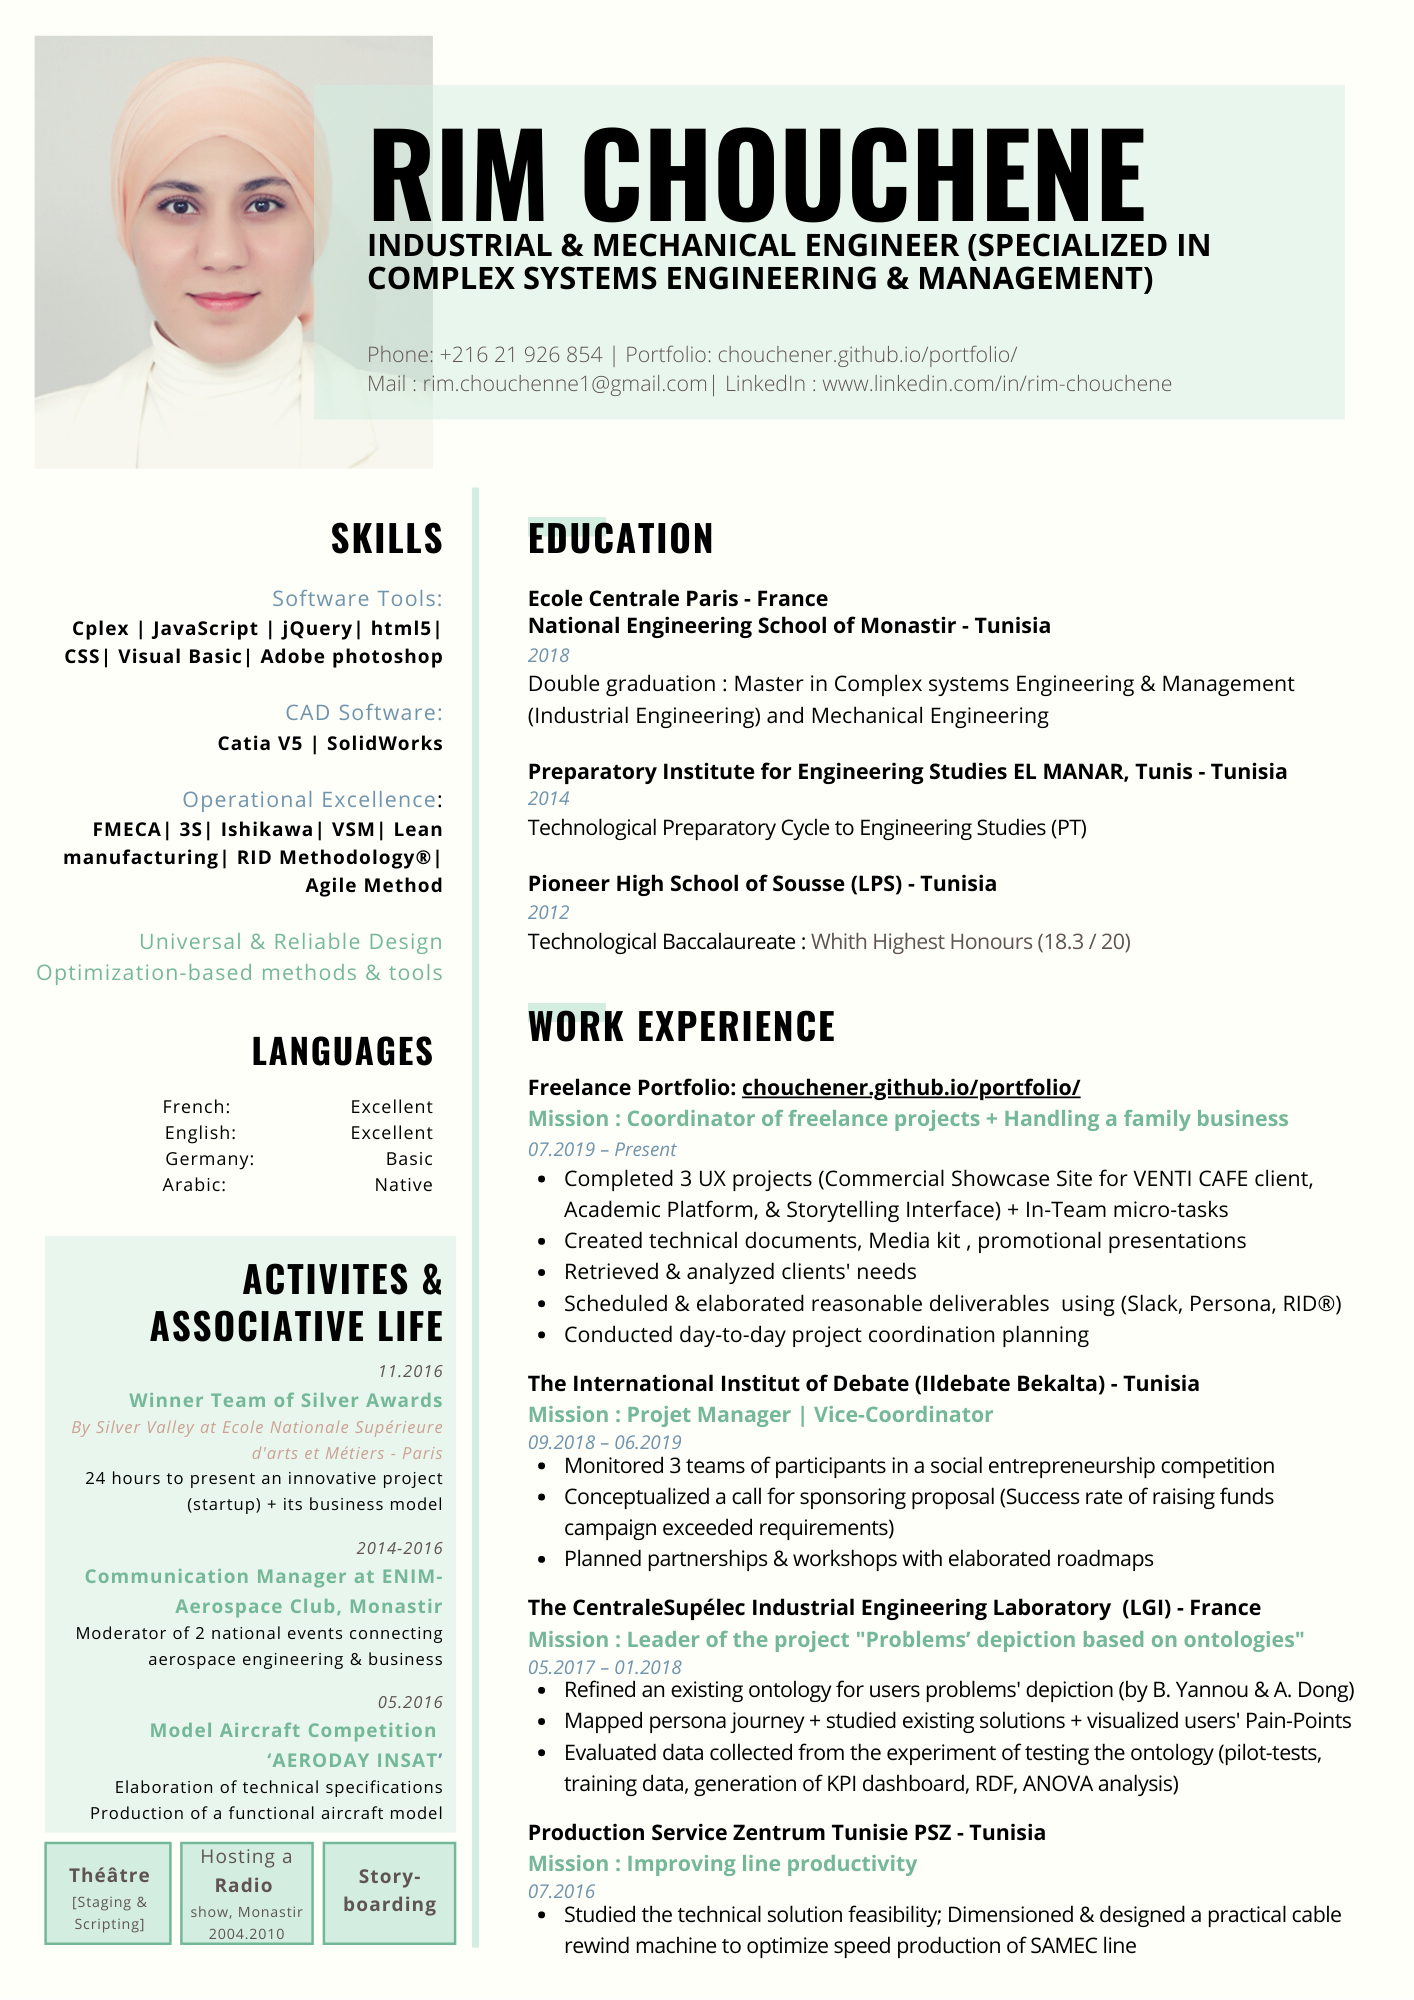
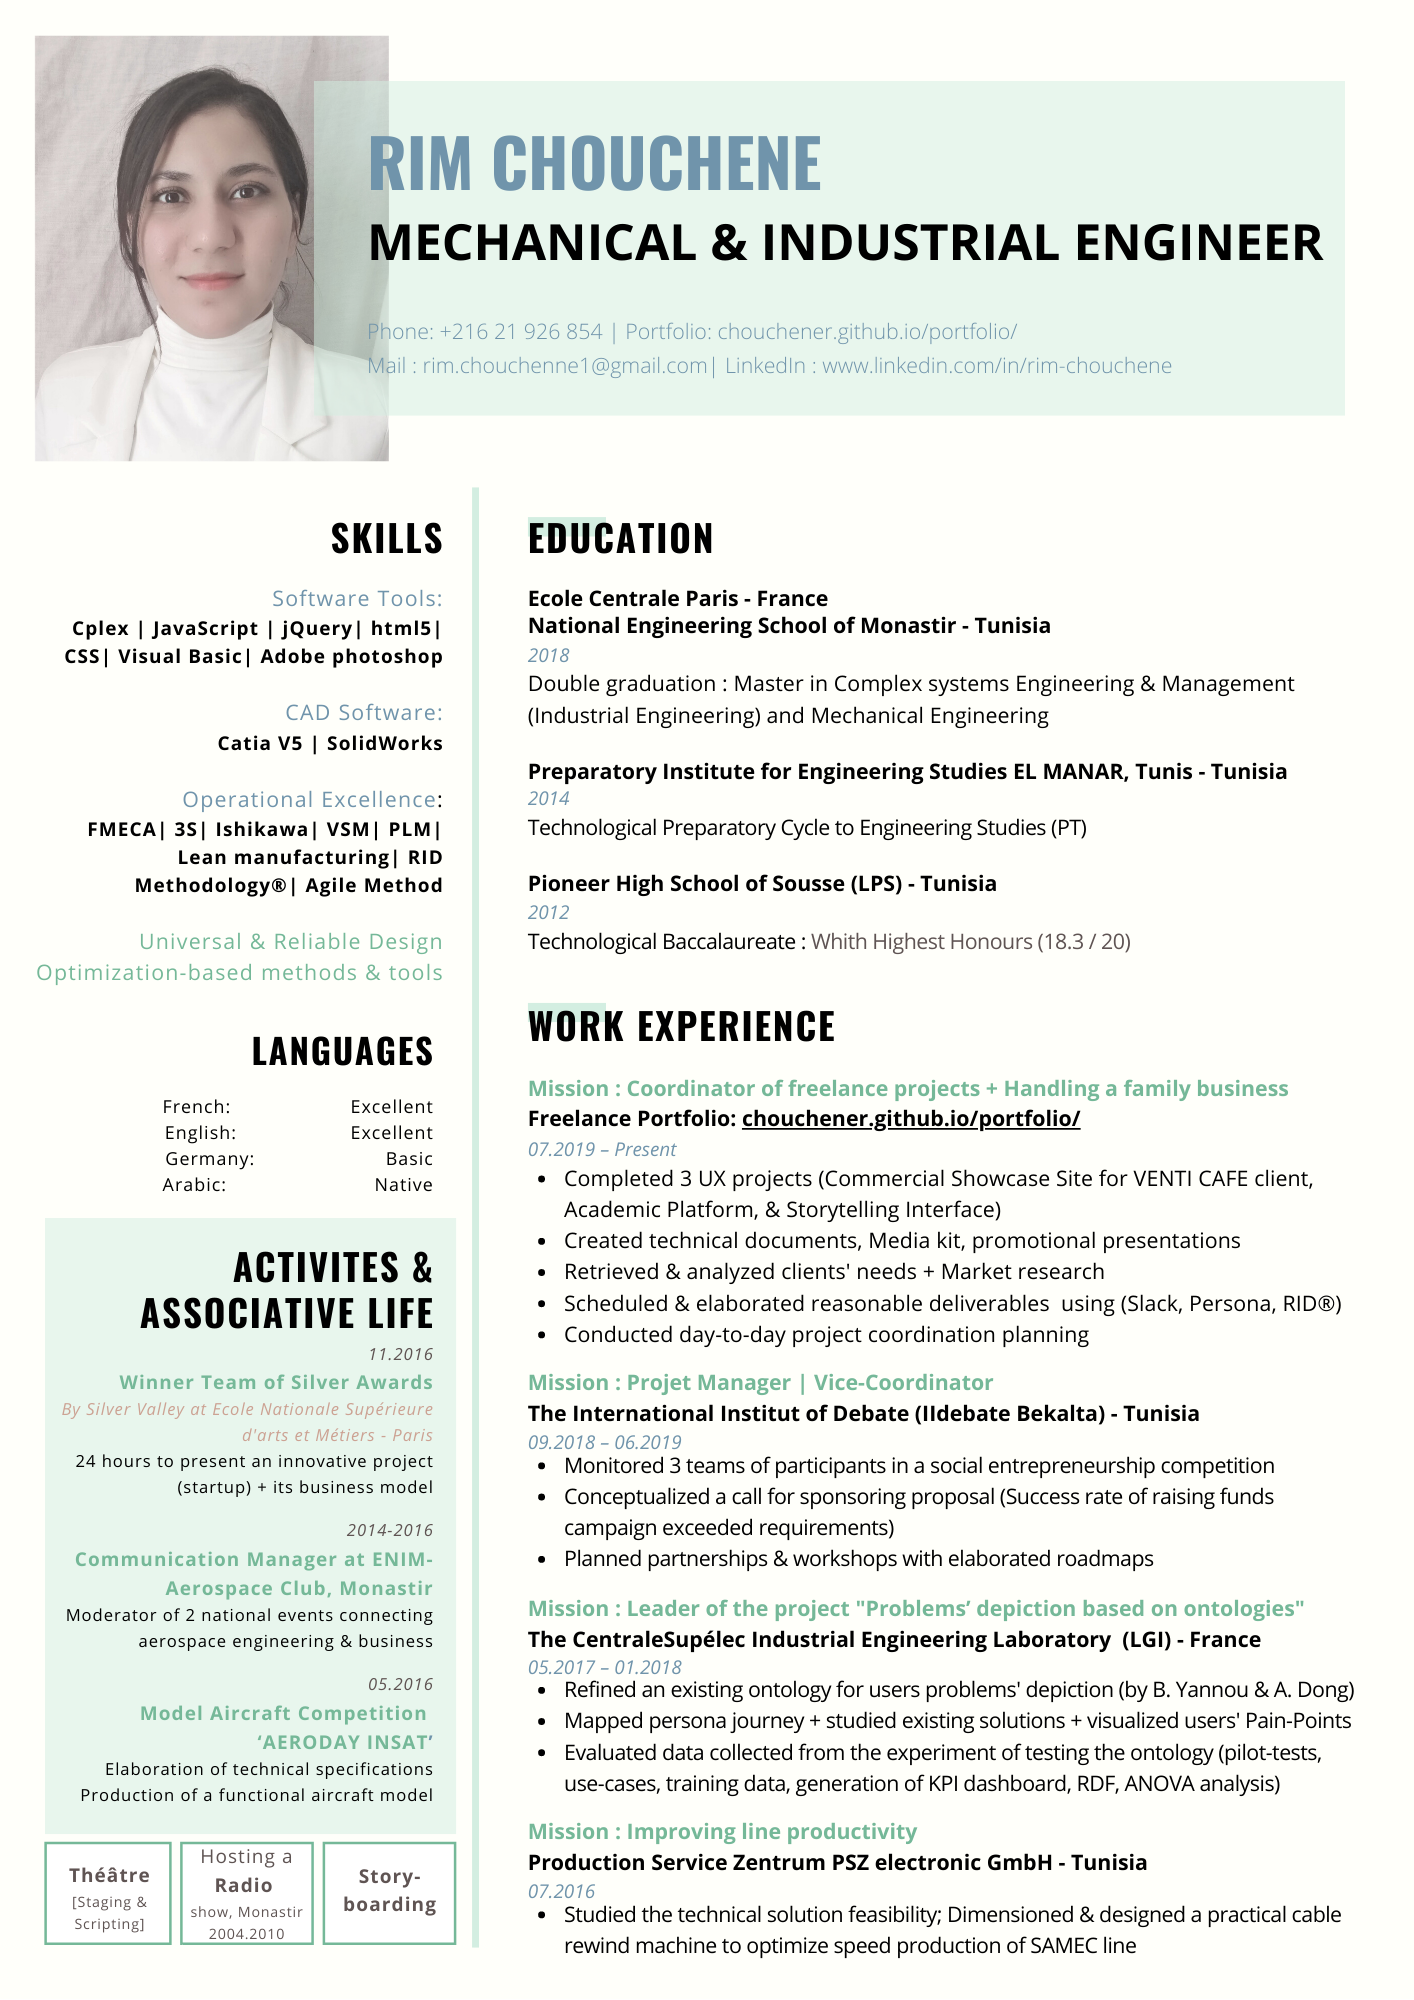
UPDATE

diff --git a/index.html b/index.html
@@ -34,7 +34,7 @@
 								</header>
 								<a href="#work" class="jumplink pic" >
 									<span class="arrow icon solid fa-chevron-right"style="color: #C8D1E8 !important;"><span>See my work</span></span>
-									<img src="images/ME5.jpg" alt="This is my personal image " />
+									<img src="images/ME7.jpg" alt="This is my personal image " />
 								</a>
 							</article>
 

diff --git a/firstproject.html b/firstproject.html
@@ -16,6 +16,7 @@
 	<!-- Wrapper-->
 			<div id="wrapper">
 				
+				
 <a href="index.html" class="returnButt"> Home </a>
 
 	<div style="line-height: 30px;">
@@ -41,5 +42,6 @@
 					<li> Find me on: <a href="https://www.linkedin.com/in/rim-chouchene-2a8849a6/">LinkedIn</a></li>
 				</ul>
 			</div>
+		
 	</body>
 </html>

diff --git a/assets/css/main.css b/assets/css/main.css
@@ -2348,7 +2348,7 @@ img {vertical-align: middle;}
 	color: #363636;
 }
 @media screen and (max-width: 736px) {
-#wrapper{
+#wrapper2{
 	padding: 2em 1.5em 1.5em 1.5em;
 }
 }
